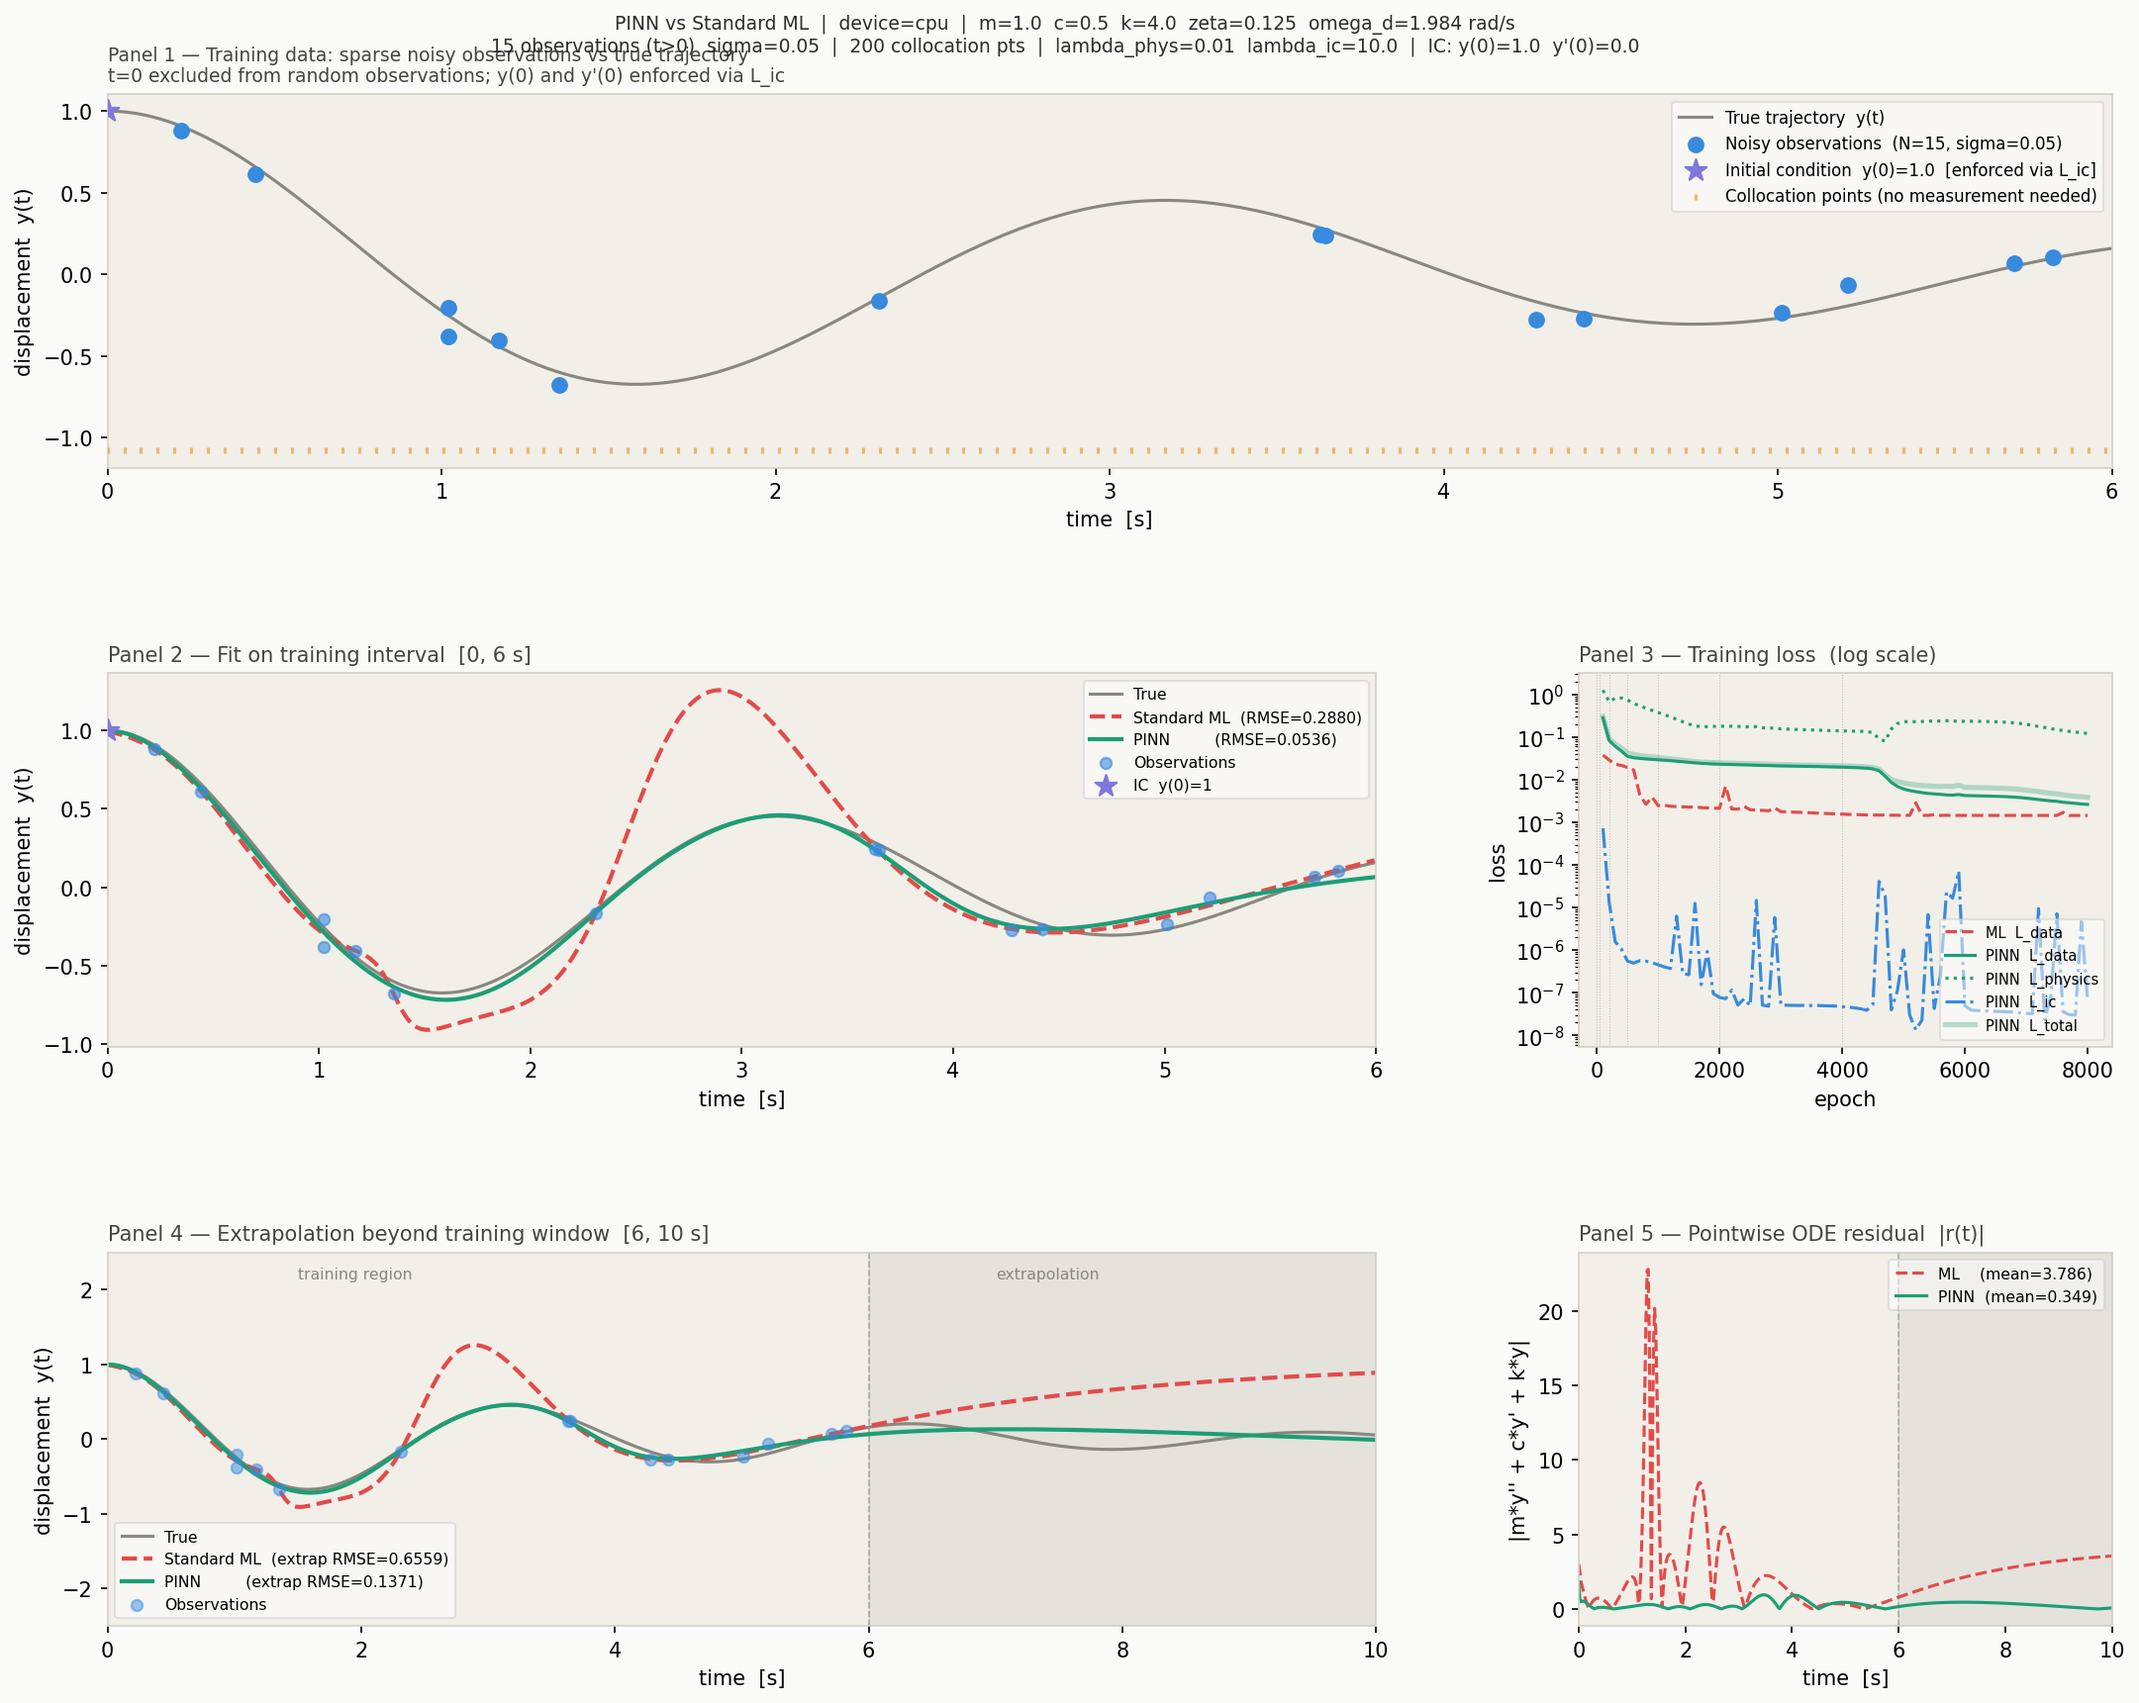
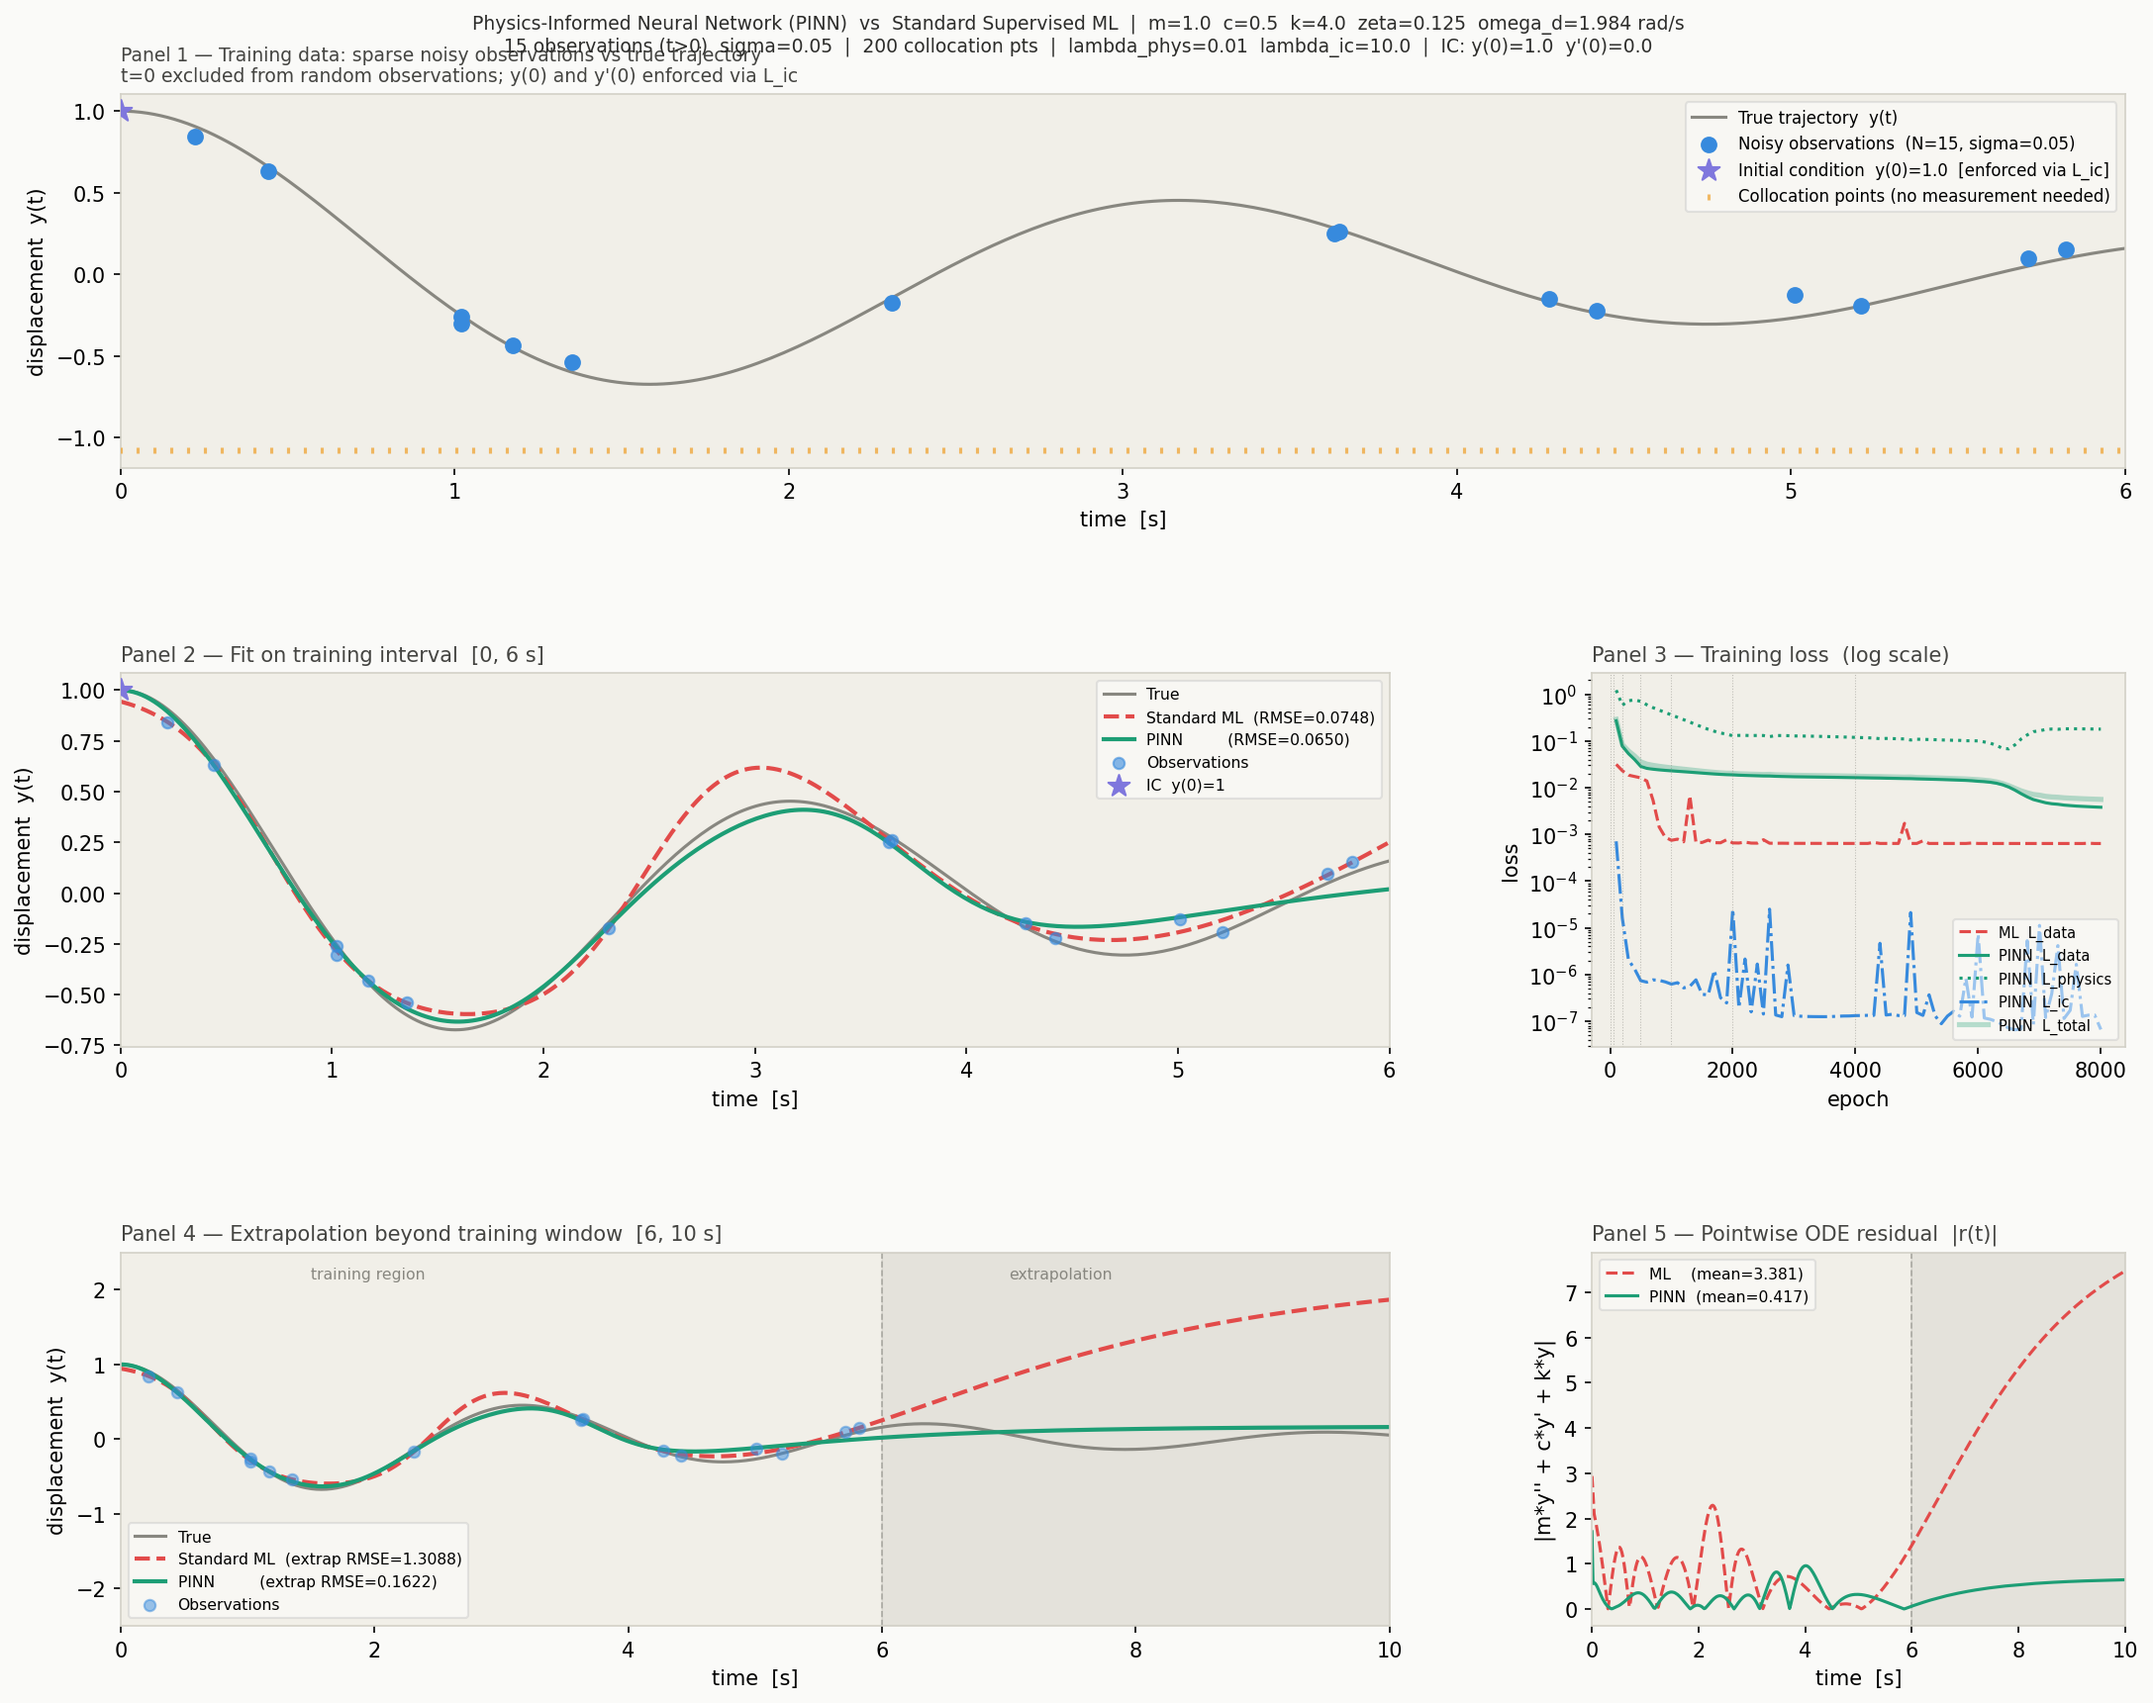
Started own version

diff --git a/vasco_pinn_damper.py b/vasco_pinn_damper.py
@@ -82,7 +82,7 @@ OMEGA_D = OMEGA_0 * np.sqrt(1.0 - ZETA**2)
 
 T_TRAIN  = 6.0    # end of observation window   [s]
 T_EXTRAP = 10.0   # end of extrapolation window [s]
-
+T_TEST   = 10.0   # end of the testing window   [s]
 # Loss weights
 LAMBDA_PHYS = 1e-2
 LAMBDA_IC   = 10.0
@@ -110,14 +110,18 @@ def analytic(t: np.ndarray) -> np.ndarray:
 # 3.  DATA GENERATION
 # =============================================================================
 
-N_OBS = 15      # noisy observations
+N_OBS = 15      # number of noisy observations
+N_TEST = 20     # number of test points
 SIGMA = 0.05    # measurement noise standard deviation
 N_COL = 200     # collocation points for physics residual
 
 # Observation points: random draws from (0.1, T_TRAIN].
 # t=0 deliberately excluded -- initial condition is enforced via L_ic.
-t_obs = np.sort(np.random.uniform(0.1, T_TRAIN, N_OBS))
-y_obs = analytic(t_obs) + np.random.normal(0.0, SIGMA, N_OBS)
+t_obs  = np.random.uniform(0.1, T_TRAIN, N_OBS)
+t_test = np.random.uniform(0.1, T_TEST, N_TEST)
+
+y_obs  = analytic(t_obs) + np.random.normal(0.0, SIGMA, N_OBS)
+y_test = analytic(t_test)
 
 # Collocation points: uniform on [0, T_EXTRAP].
 # Extends into extrapolation region -- no measurement required.
@@ -343,6 +347,9 @@ def physics_residual_np(y, t):
 y_ml_full   = predict(model_ml,   t_plot_full)
 y_pinn_full = predict(model_pinn, t_plot_full)
 
+y_ml_test   = predict(model_ml,   t_test)
+y_pinn_test = predict(model_pinn, t_test)
+
 mask_train  = t_plot_full <= T_TRAIN
 mask_extrap = t_plot_full >  T_TRAIN
 
@@ -350,6 +357,8 @@ rmse_ml_train   = rmse(y_ml_full[mask_train],   y_true_full[mask_train])
 rmse_pinn_train = rmse(y_pinn_full[mask_train],  y_true_full[mask_train])
 rmse_ml_ext     = rmse(y_ml_full[mask_extrap],  y_true_full[mask_extrap])
 rmse_pinn_ext   = rmse(y_pinn_full[mask_extrap], y_true_full[mask_extrap])
+rmse_ml_test    = rmse(y_ml_test, y_test)
+rmse_pinn_test  = rmse(y_pinn_test, y_test)
 
 phys_res_ml   = physics_residual_np(y_ml_full,  t_plot_full)
 phys_res_pinn = physics_residual_np(y_pinn_full, t_plot_full)
@@ -365,6 +374,7 @@ print(f"{'Metric':<35}  {'Std ML':>10}  {'PINN':>10}")
 print("-" * 58)
 print(f"{'RMSE  (training interval)':35}  {rmse_ml_train:>10.4f}  {rmse_pinn_train:>10.4f}")
 print(f"{'RMSE  (extrapolation)':35}  {rmse_ml_ext:>10.4f}  {rmse_pinn_ext:>10.4f}")
+print(f"{'RMSE  (test points)':35}  {rmse_ml_test:>10.4f}  {rmse_pinn_test:>10.4f}")
 print(f"{'Physics residual (full domain)':35}  {phys_res_ml:>10.4f}  {phys_res_pinn:>10.4f}")
 print(f"{'y_hat(0)  [true = {Y0}]':35}  {y0_ml:>10.4f}  {y0_pinn:>10.4f}")
 
